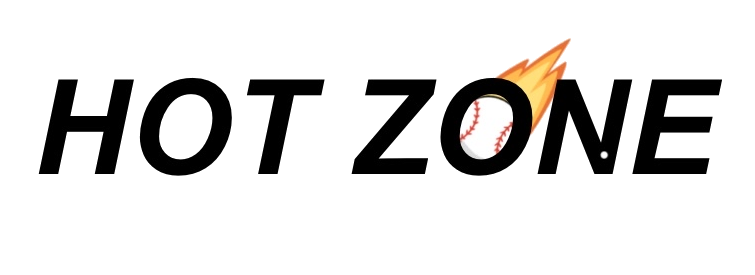
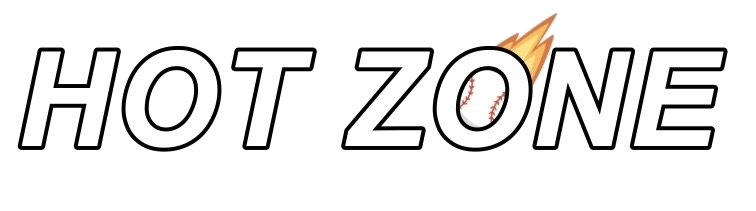
#32 feat: ロゴの色と不要なpngを削除

Changed region(s): [[0.0, 0.0569, 0.9748, 0.7393]]

diff --git a/frontend/src/components/common/Header.jsx b/frontend/src/components/common/Header.jsx
@@ -1,10 +1,19 @@
-import rogoImg from "../../asset/rogo.png"; // 画像ファイルのインポート
+import rogoImg from "../../asset/rogo.png";
 
 const Header = () => {
   return (
     <header className="header">
       <h1>
-        <img src={rogoImg} alt="ロゴ" className="logo-img" />
+        <img
+          src={rogoImg}
+          alt="ロゴ"
+          style={{
+            width: "30%",
+            height: "60%",
+            position: "relative",
+            bottom: "-10px",
+          }}
+        />
       </h1>
       <nav>
         <span>ナビゲーション</span>

diff --git a/frontend/src/styles/global.css b/frontend/src/styles/global.css
@@ -18,7 +18,7 @@
   --text-color: #212529;
   --text-muted: #6c757d;
 
-  --header-bg: #f8f9fa;
+  --header-bg: #0d1b2a;
   --left-panel-bg: #f9f9f9;
   --right-panel-bg: #ffffff;
 
